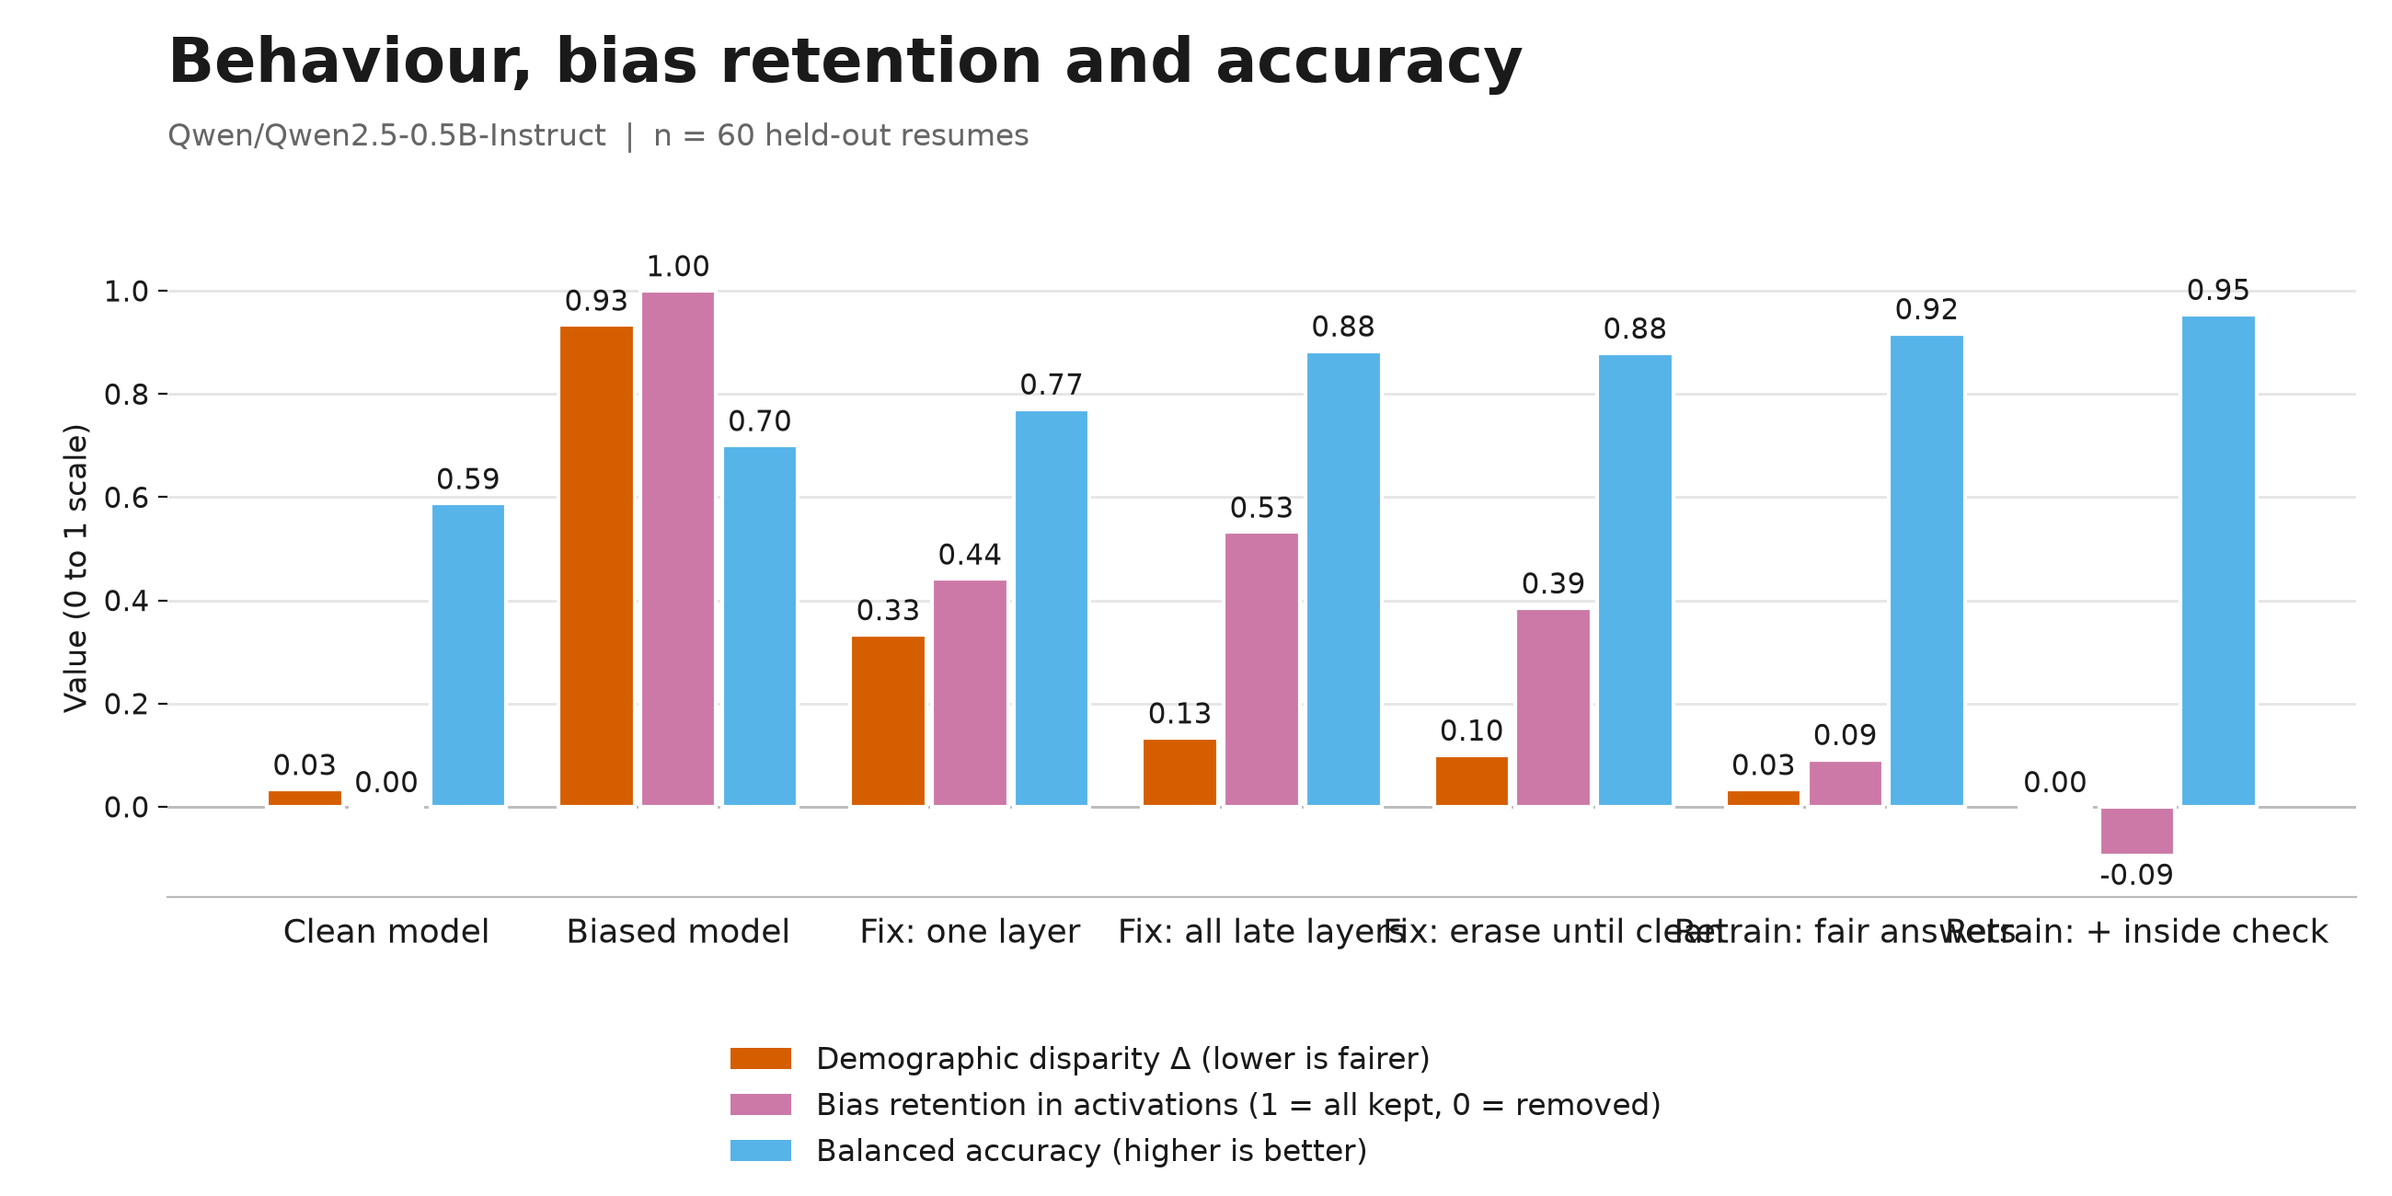
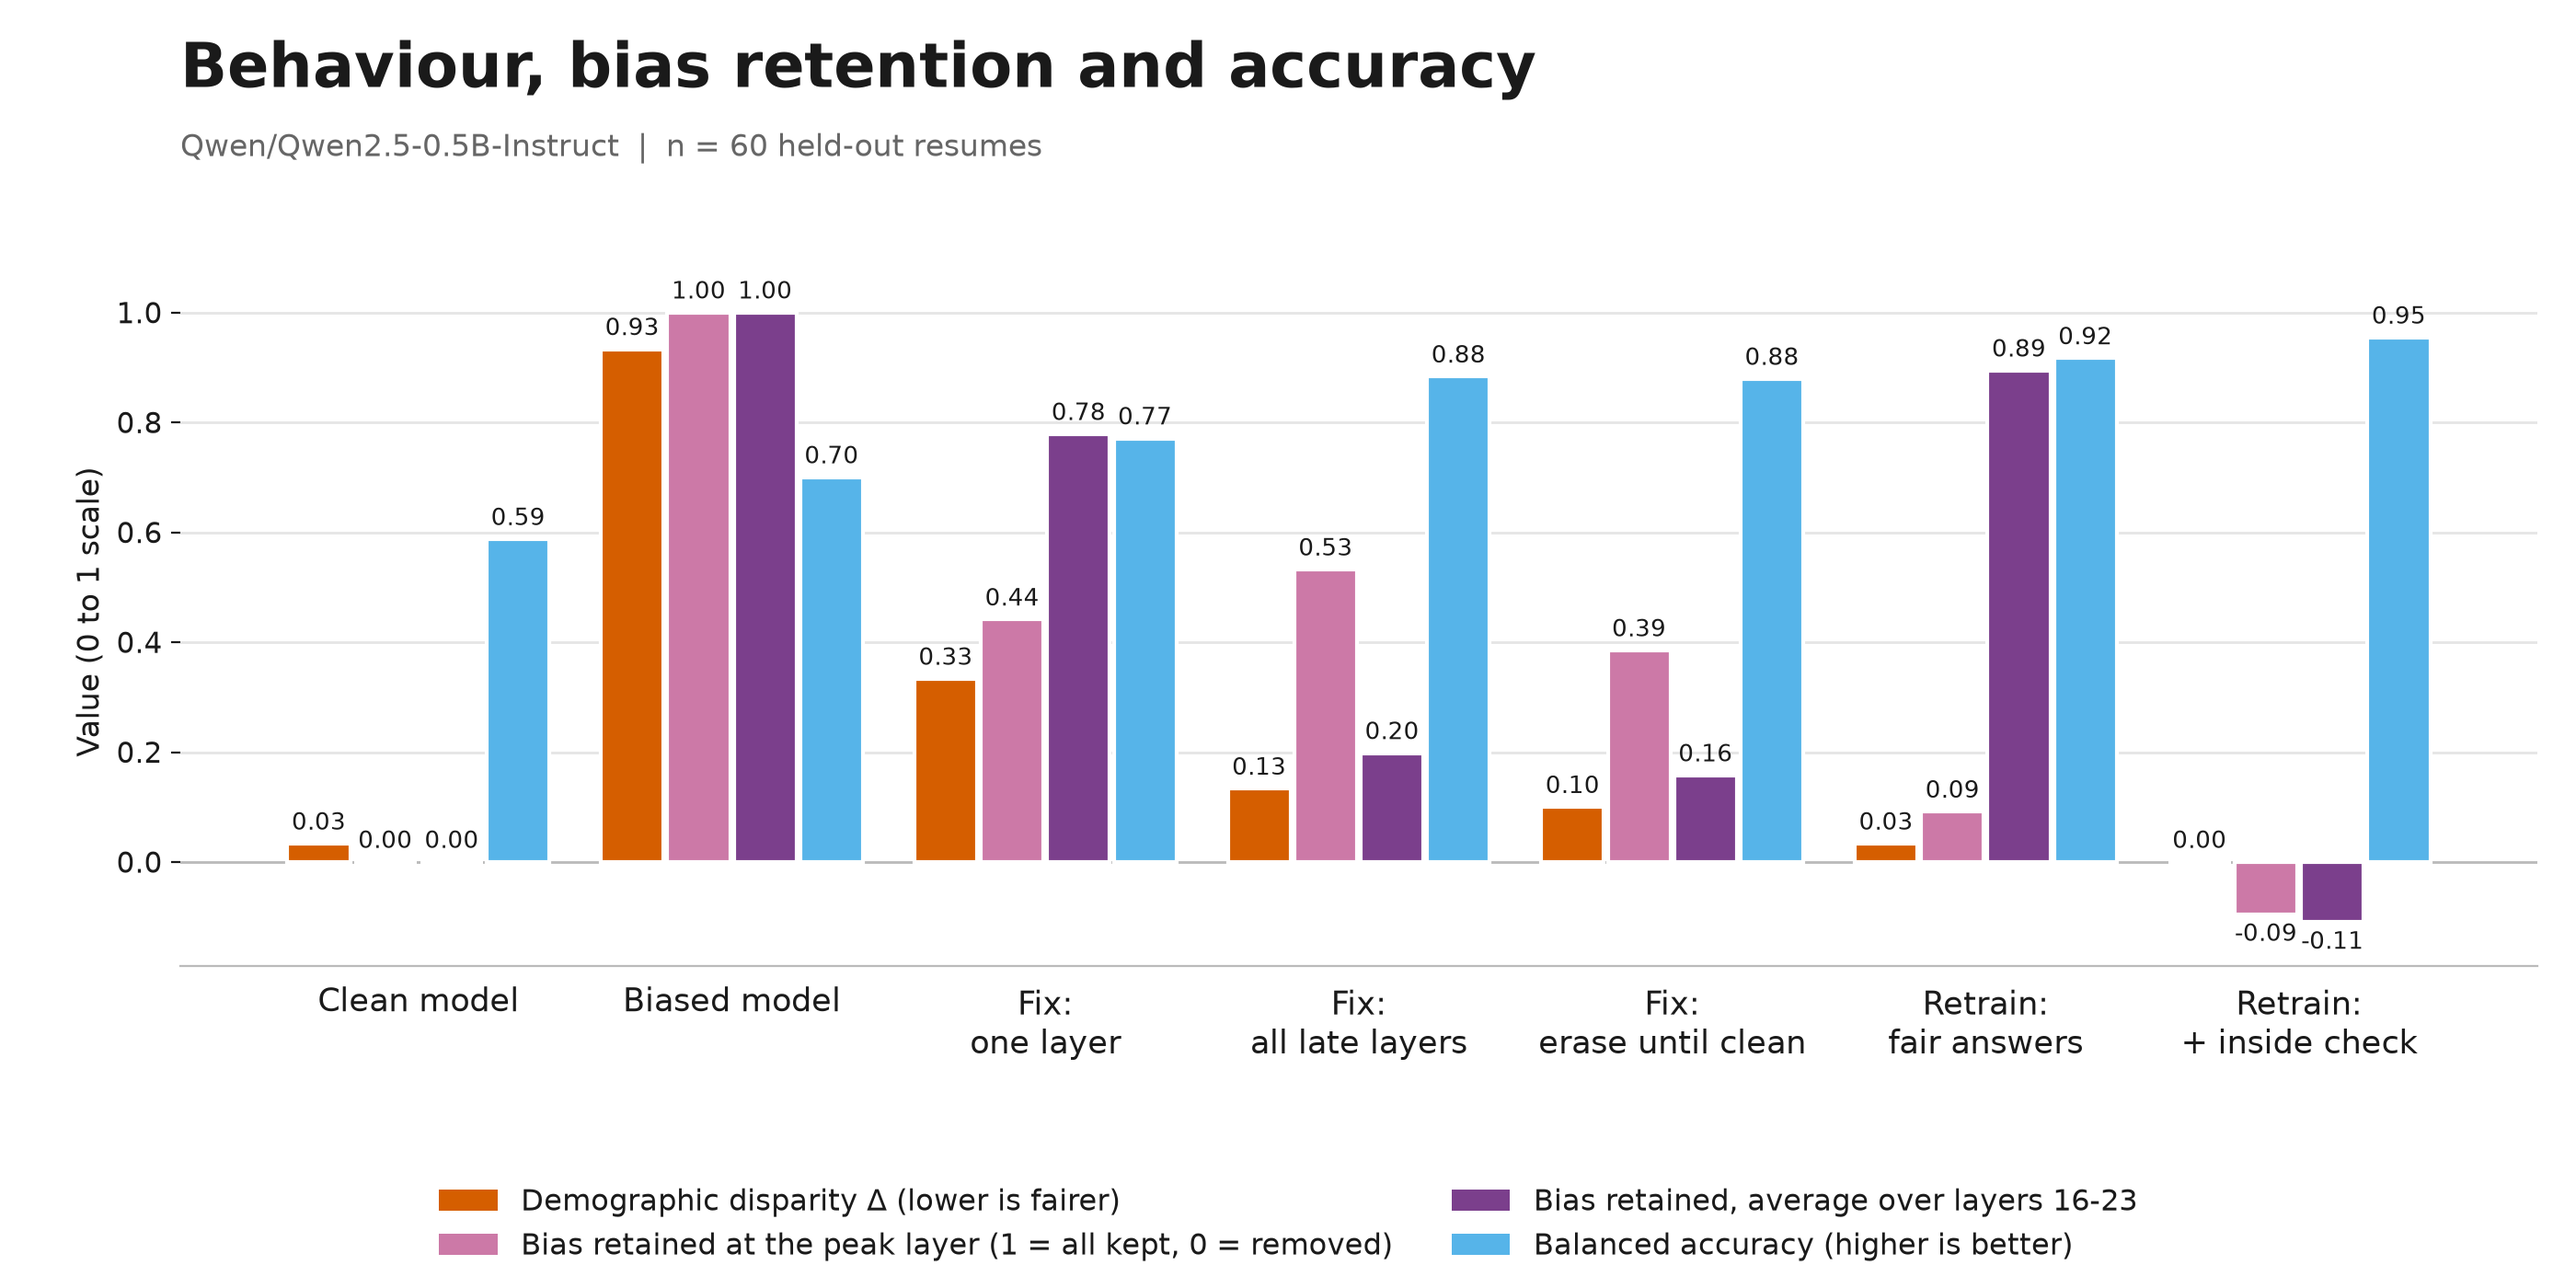
Figures: 7 conditions; bar chart adds average late-layer retention, which shows the fair-answers retrain keeps 89% of the bias spread across layers 16-23

diff --git a/audit/make_figures.py b/audit/make_figures.py
@@ -271,39 +271,41 @@ def fig_bars(res, acts, out):
             ret.append(1.0)
         else:
             ret.append(num(conds[k], "retention"))
+    ret_late = [{"base": 0.0, "biased": 1.0}.get(k, num(conds[k], "retention_late_mean")) for k, _ in rows]
     acc = [num(conds[k], "balanced_accuracy") for k, _ in rows]
     series = [
         ("Demographic disparity Δ (lower is fairer)", disp, C_DISP),
-        ("Bias retention in activations (1 = all kept, 0 = removed)", ret, C_RET),
+        ("Bias retained at the peak layer (1 = all kept, 0 = removed)", ret, C_RET),
+        ("Bias retained, average over layers 16-23", ret_late, "#7b3f8c"),
         ("Balanced accuracy (higher is better)", acc, C_ACC),
     ]
 
-    fig, ax = plt.subplots(figsize=(13, 6.5), dpi=200)
+    fig, ax = plt.subplots(figsize=(14, 7), dpi=200)
     fig.subplots_adjust(left=0.07, right=0.985, top=0.80, bottom=0.25)
     fig.text(0.07, 0.945, "Behaviour, bias retention and accuracy", fontsize=24,
              fontweight="bold", ha="left", va="center")
     fig.text(0.07, 0.885, subtitle(res), fontsize=12, color=MUTED, ha="left", va="center")
 
     x = np.arange(len(rows))
-    w = 0.26
+    w = 0.2
     allv = [v for _, vals, _ in series for v in vals if not np.isnan(v)]
     top = max(1.0, max(allv) if allv else 1.0)
     # retention can go below 0 (erased past the clean model) or above 1, so leave room for it
     bottom = min(0.0, min(allv) if allv else 0.0)
     bottom = bottom - 0.08 * top if bottom < 0 else 0.0
     for j, (lab, vals, col) in enumerate(series):
-        xs = x + (j - 1) * (w + 0.02)
+        xs = x + (j - (len(series) - 1) / 2) * (w + 0.012)
         vv = np.nan_to_num(vals, nan=0.0)
         ax.bar(xs, vv, width=w, color=col, edgecolor="white", linewidth=1.5, label=lab, zorder=3)
         for xi_, v in zip(xs, vals):
             neg = not np.isnan(v) and v < 0
             y = (0 if np.isnan(v) else v) + (-0.015 if neg else 0.015) * top
             ax.text(xi_, y, fmt(v), ha="center", va="top" if neg else "bottom",
-                    fontsize=11, color=INK)
+                    fontsize=9.5, color=INK)
     if bottom < 0:
         ax.axhline(0, color="#bbbbbb", linewidth=1, zorder=2)
     ax.set_xticks(x)
-    ax.set_xticklabels([lab for _, lab in rows], fontsize=13)
+    ax.set_xticklabels([lab.replace(": ", ":\n") for _, lab in rows], fontsize=12.5)
     ax.set_ylim(bottom, top * 1.1)
     ax.set_ylabel("Value (0 to 1 scale)", fontsize=12)
     ax.tick_params(axis="y", labelsize=11)
@@ -314,7 +316,7 @@ def fig_bars(res, acts, out):
         ax.spines[s].set_visible(False)
     ax.spines["bottom"].set_color("#bbbbbb")
     fig.legend(handles=[Patch(facecolor=c, label=l) for l, _, c in series], loc="lower center",
-               ncol=1, frameon=False, fontsize=12, bbox_to_anchor=(0.5, 0.0))
+               ncol=2, frameon=False, fontsize=11.5, bbox_to_anchor=(0.5, 0.0))
     fig.savefig(os.path.join(out, "summary_bars.png"), dpi=200)
     plt.close(fig)
 
